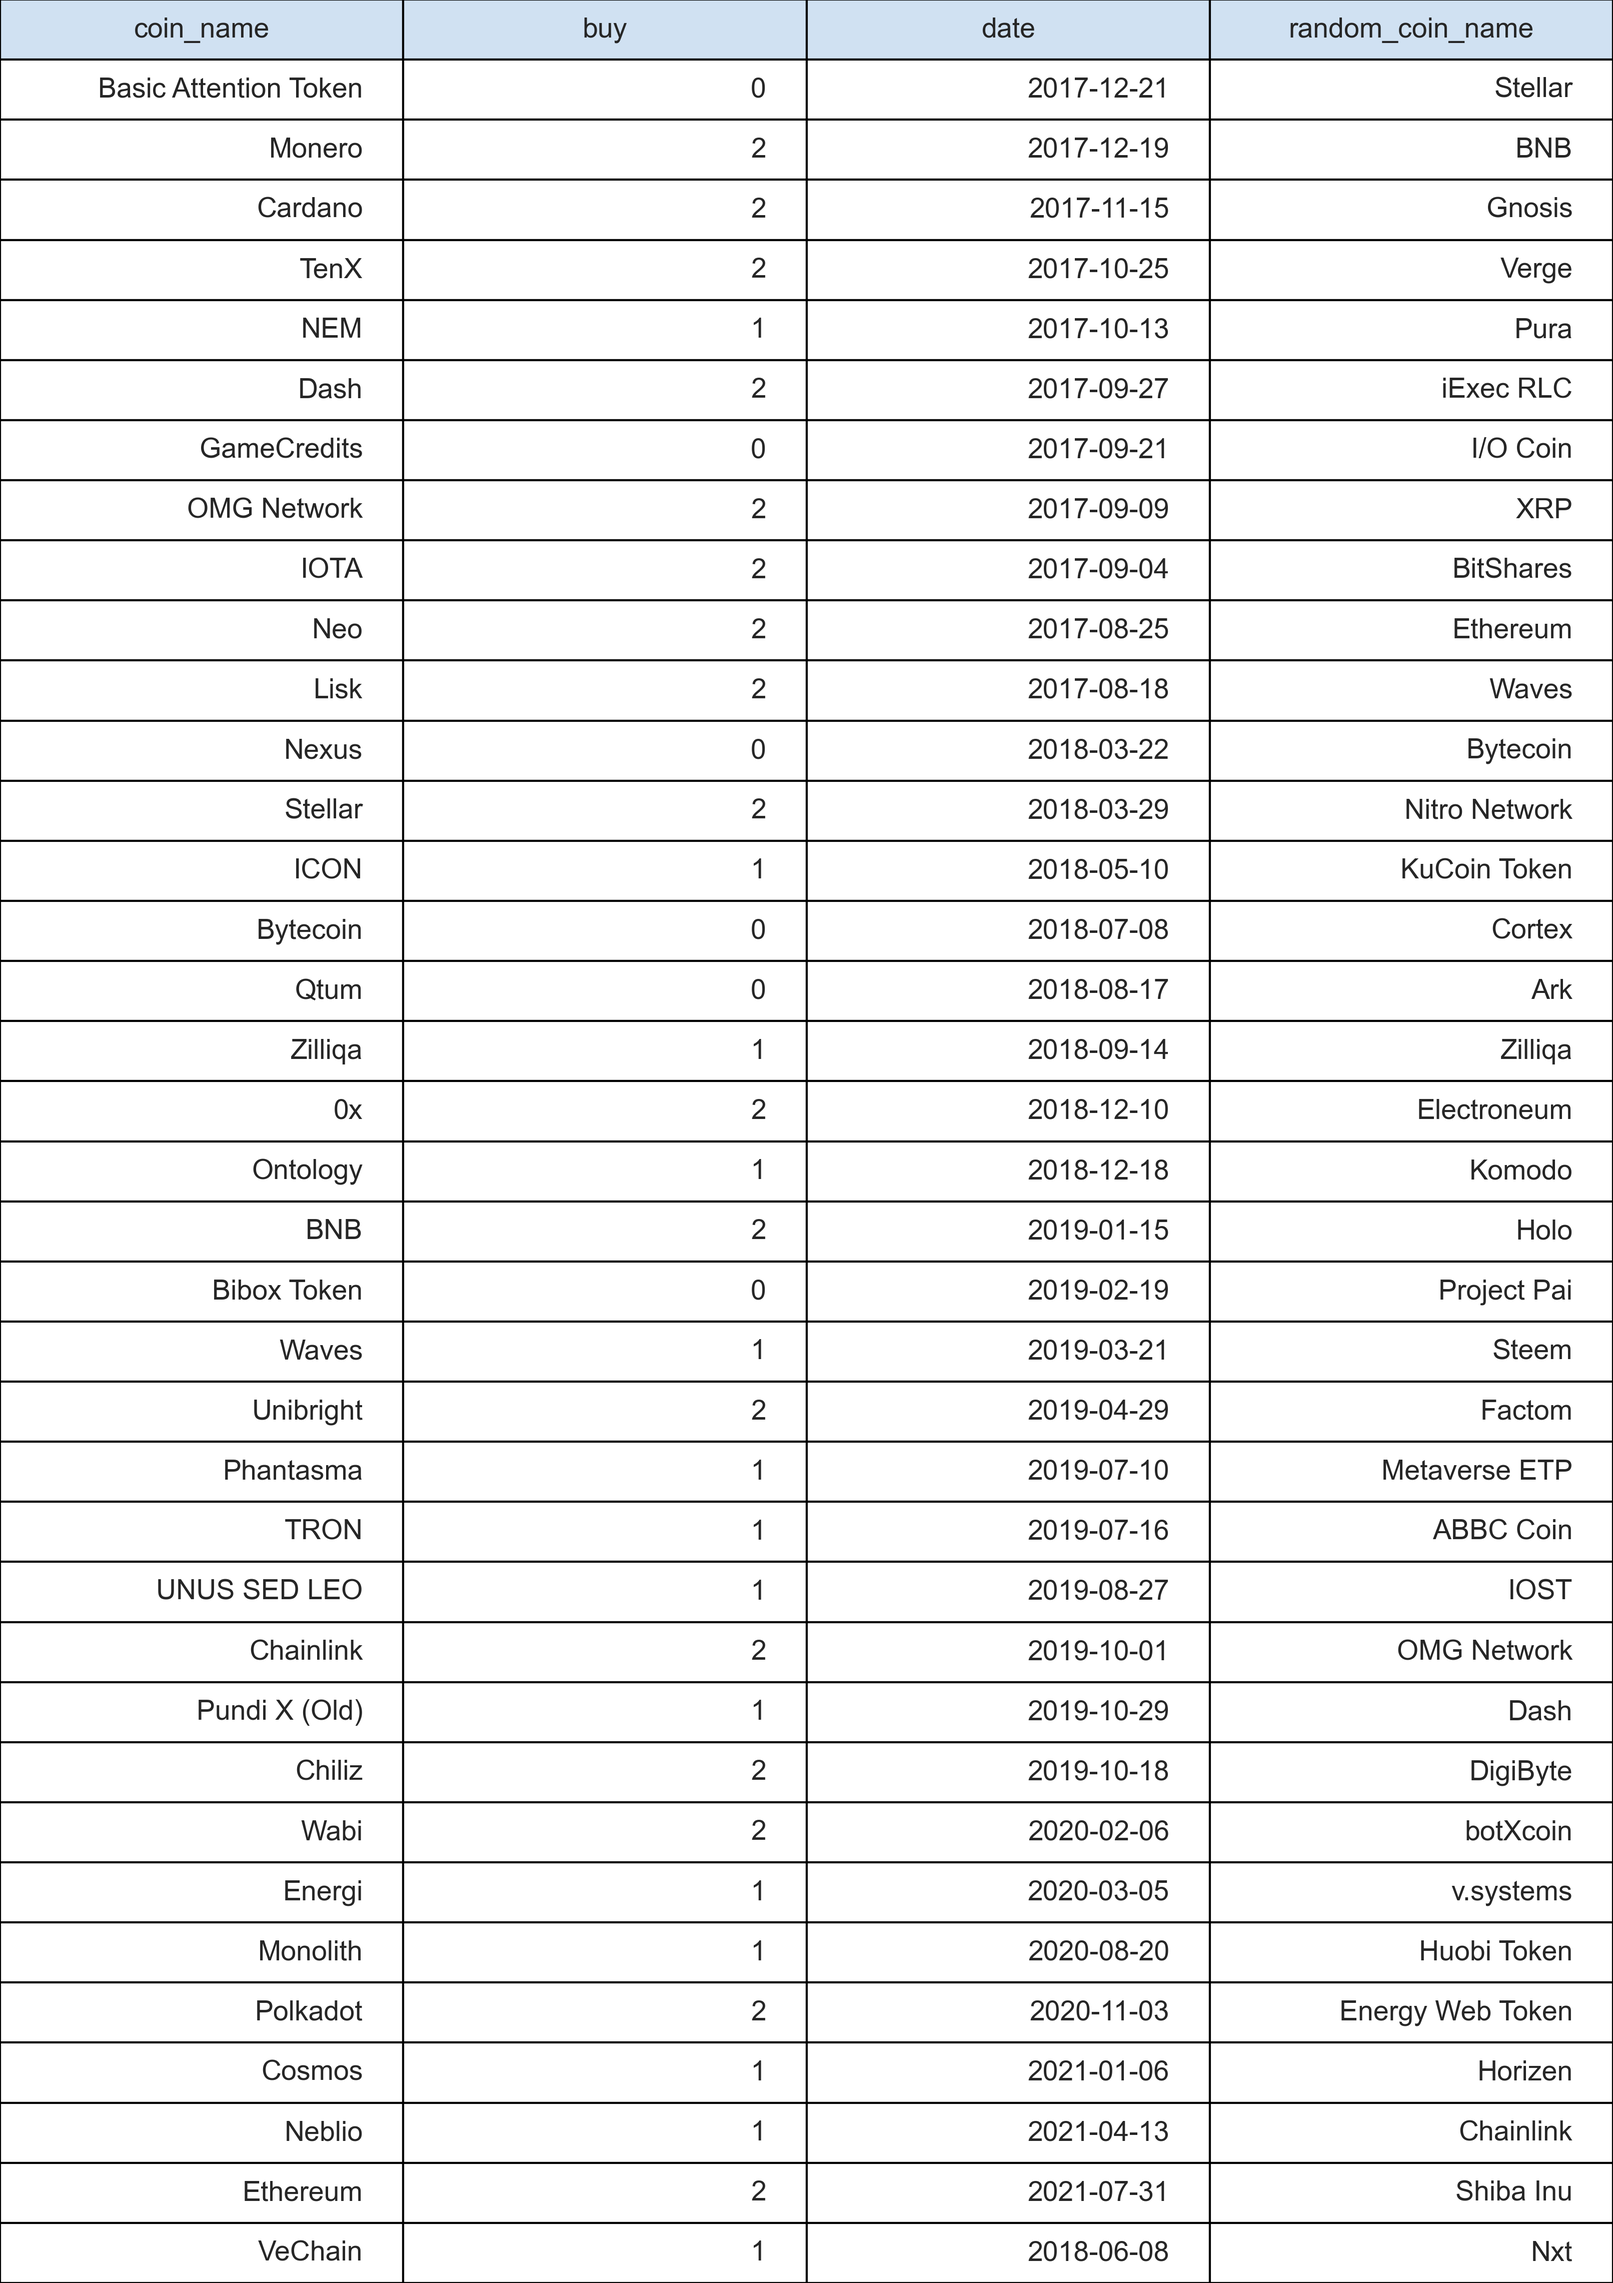
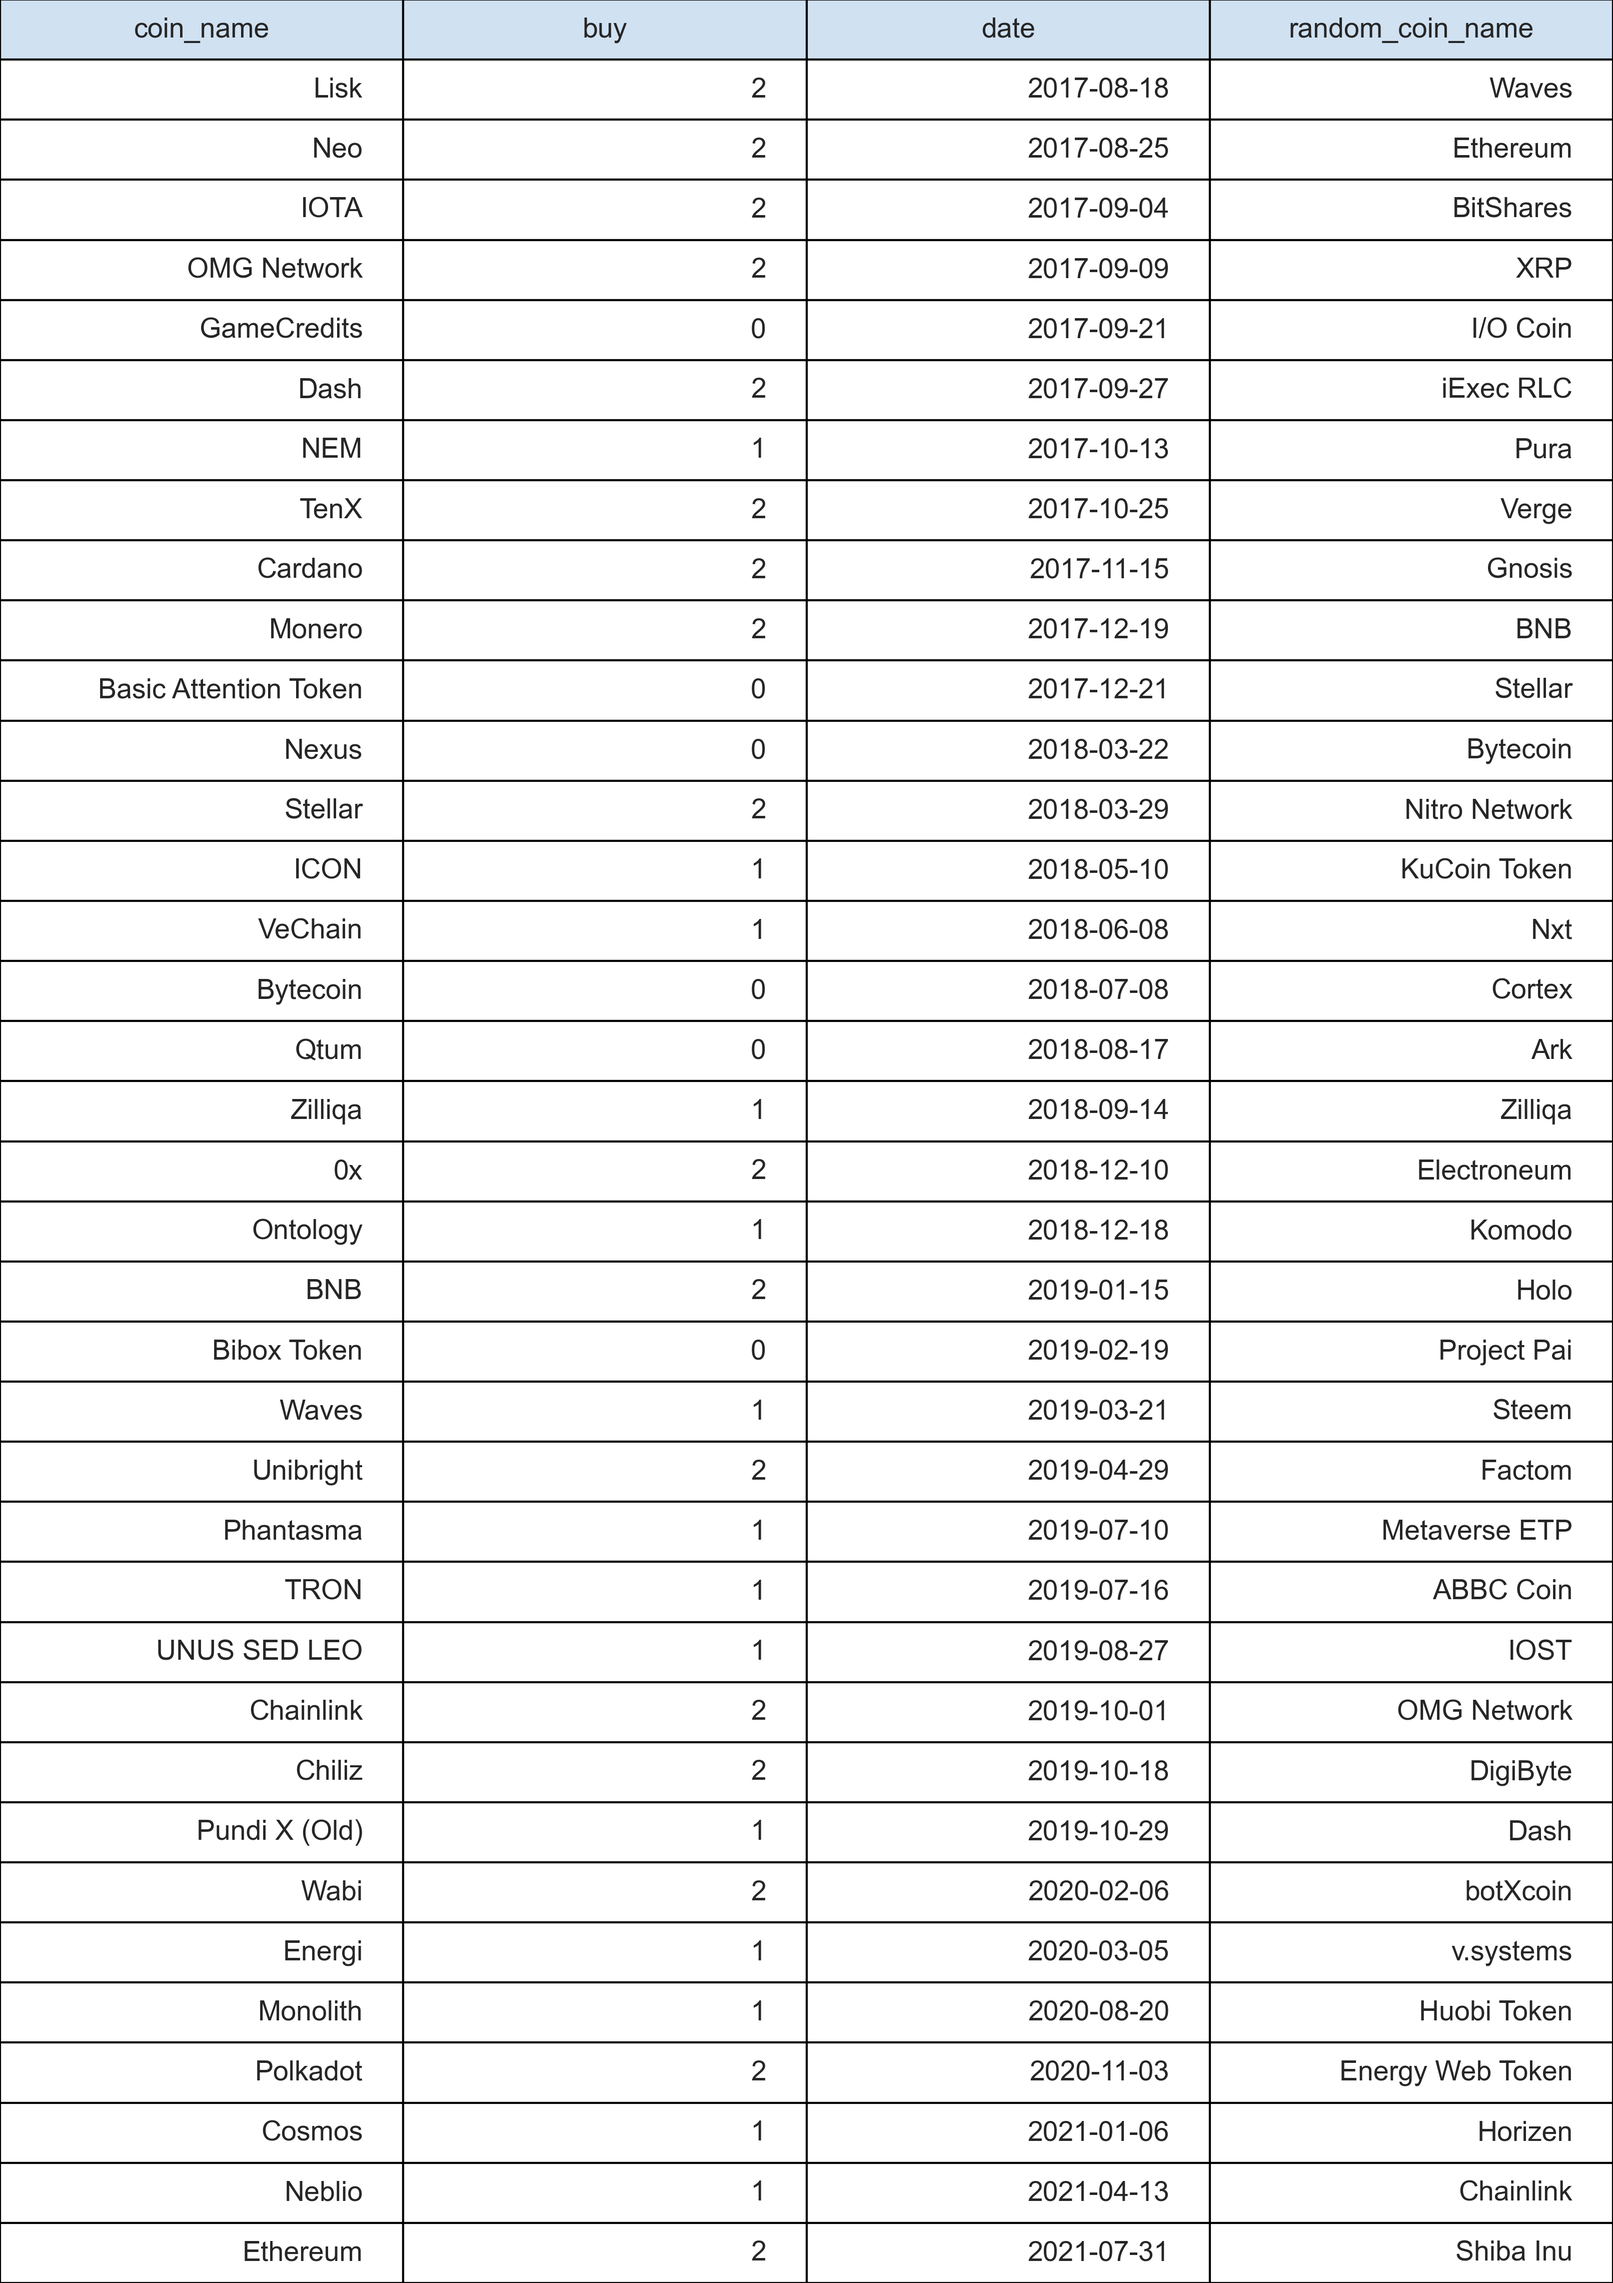
Fix sorting

diff --git a/analysis.py b/analysis.py
@@ -19,6 +19,7 @@ ax_1.bar_label(rects1, padding=3, size=12)
 # Altcoins and random altcoins
 altcoins_table_with_random = altcoins_bought[['coin_name', 'buy',
                                               'date', 'random_coin_name']]
+altcoins_table_with_random.sort_values('date', inplace=True)
 altcoins_table_with_random['date'] = altcoins_table_with_random['date'].dt.date
 
 fig_tab_1, ax_tab_1 = plt.subplots(figsize=(4, 7))
@@ -77,7 +78,7 @@ altcoins_bought['bitcoin_profit'] = invested_amount * \
 altcoins_1_2 = altcoins_bought[altcoins_bought['buy'] >= 1]
 
 # Coins
-altcoins_1_2 = altcoins_1_2.sort_values('profit')
+altcoins_1_2.sort_values('profit', inplace=True)
 fig_3, ax_3 = plt.subplots()
 rects2 = ax_3.barh(altcoins_1_2['coin_name'],
                    round(altcoins_1_2['profit'], 2))
@@ -86,7 +87,7 @@ ax_3.bar_label(rects2, padding=3)
 ax_3.margins(x=0.08)
 
 # Random coins
-altcoins_1_2 = altcoins_1_2.sort_values('random_coin_profit')
+altcoins_1_2.sort_values('random_coin_profit', inplace=True)
 fig_4, ax_4 = plt.subplots()
 rects3 = ax_4.barh(altcoins_1_2['random_coin_name'],
                    round(altcoins_1_2['random_coin_profit'], 2))
